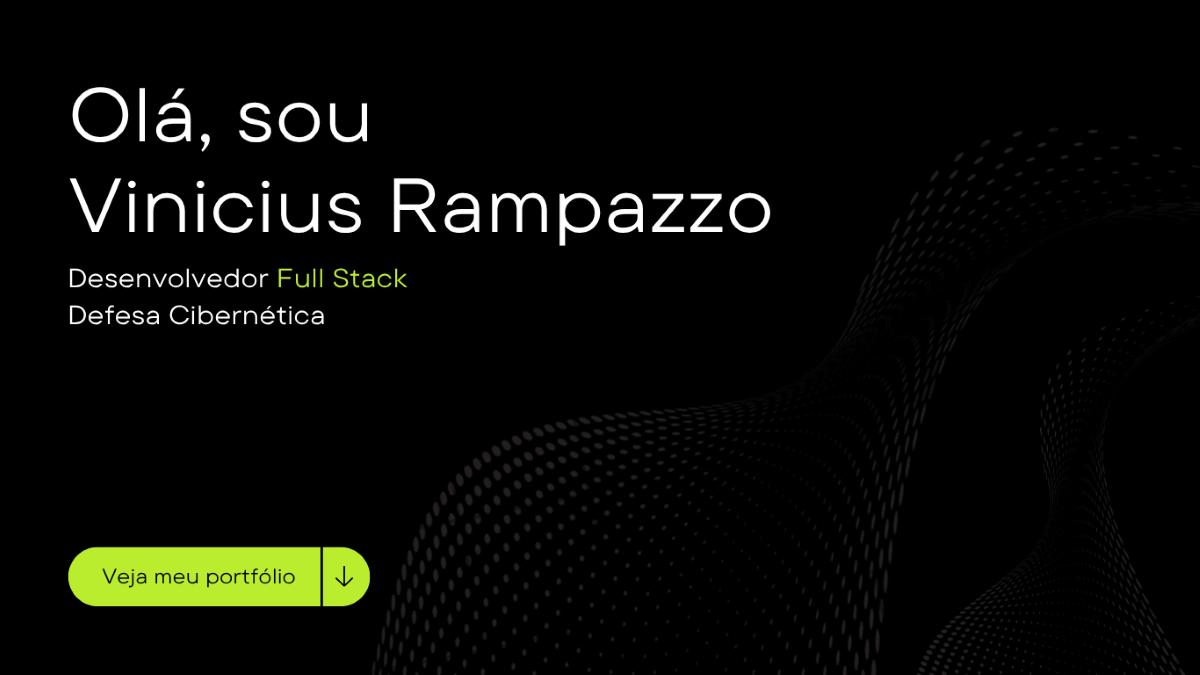
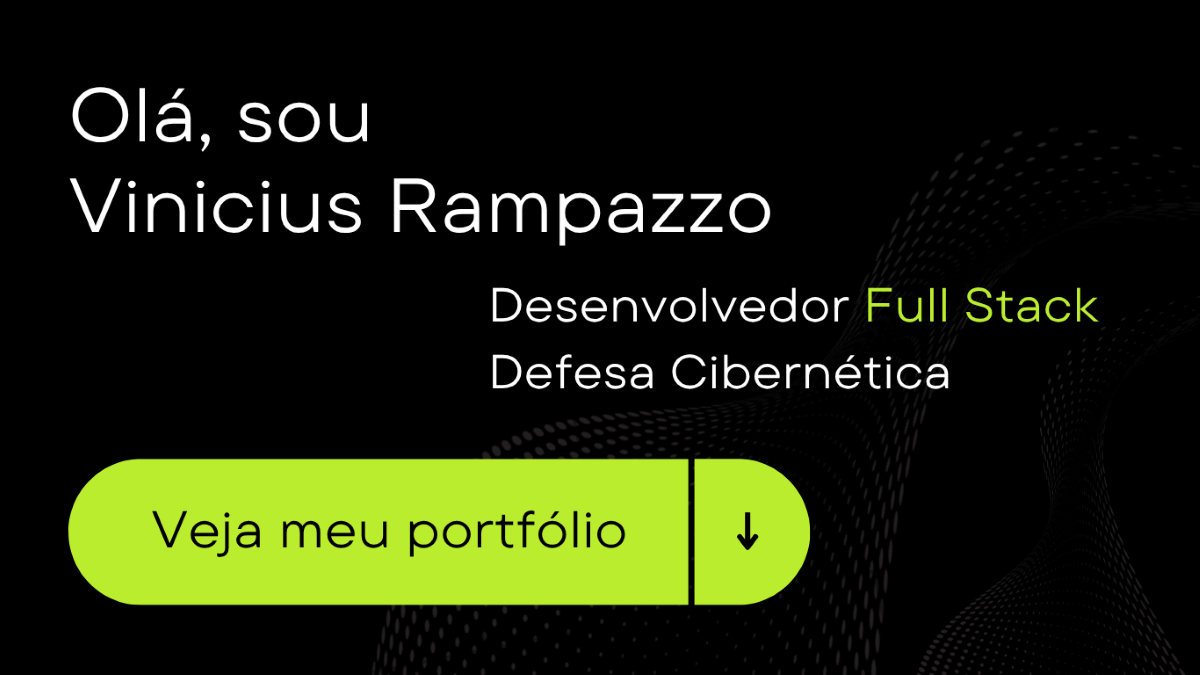
fix: fix to bug

diff --git a/src/app/layout.tsx b/src/app/layout.tsx
@@ -14,12 +14,12 @@ const geistMono = Geist_Mono({
 
 export const metadata: Metadata = {
   title: 'Vinicius Rampazzo | Desenvolvedor Full Stack',
-  description: 'Desenvolvedor Full Stack especializado em React, Node.js e Segurança Cibernética. Criando soluções web modernas e seguras.',
+  description: 'Desenvolvedor Full Stack especializado em Desenvolvimento Web e Segurança Cibernética. Criando soluções web modernas e seguras.',
   keywords: ['desenvolvedor full stack', 'react', 'nodejs', 'typescript', 'segurança cibernética'],
   authors: [{ name: 'Vinicius Rampazzo' }],
   openGraph: {
     title: 'Vinicius Rampazzo | Desenvolvedor Full Stack',
-    description: 'Desenvolvedor Full Stack especializado em React, Node.js e Segurança Cibernética.',
+    description: 'Desenvolvedor Full Stack especializado em Desenvolvimento Web e Segurança Cibernética.',
     url: 'https://devrampazzo.com.br',
     siteName: 'DevRampazzo Portfolio',
     images: [
